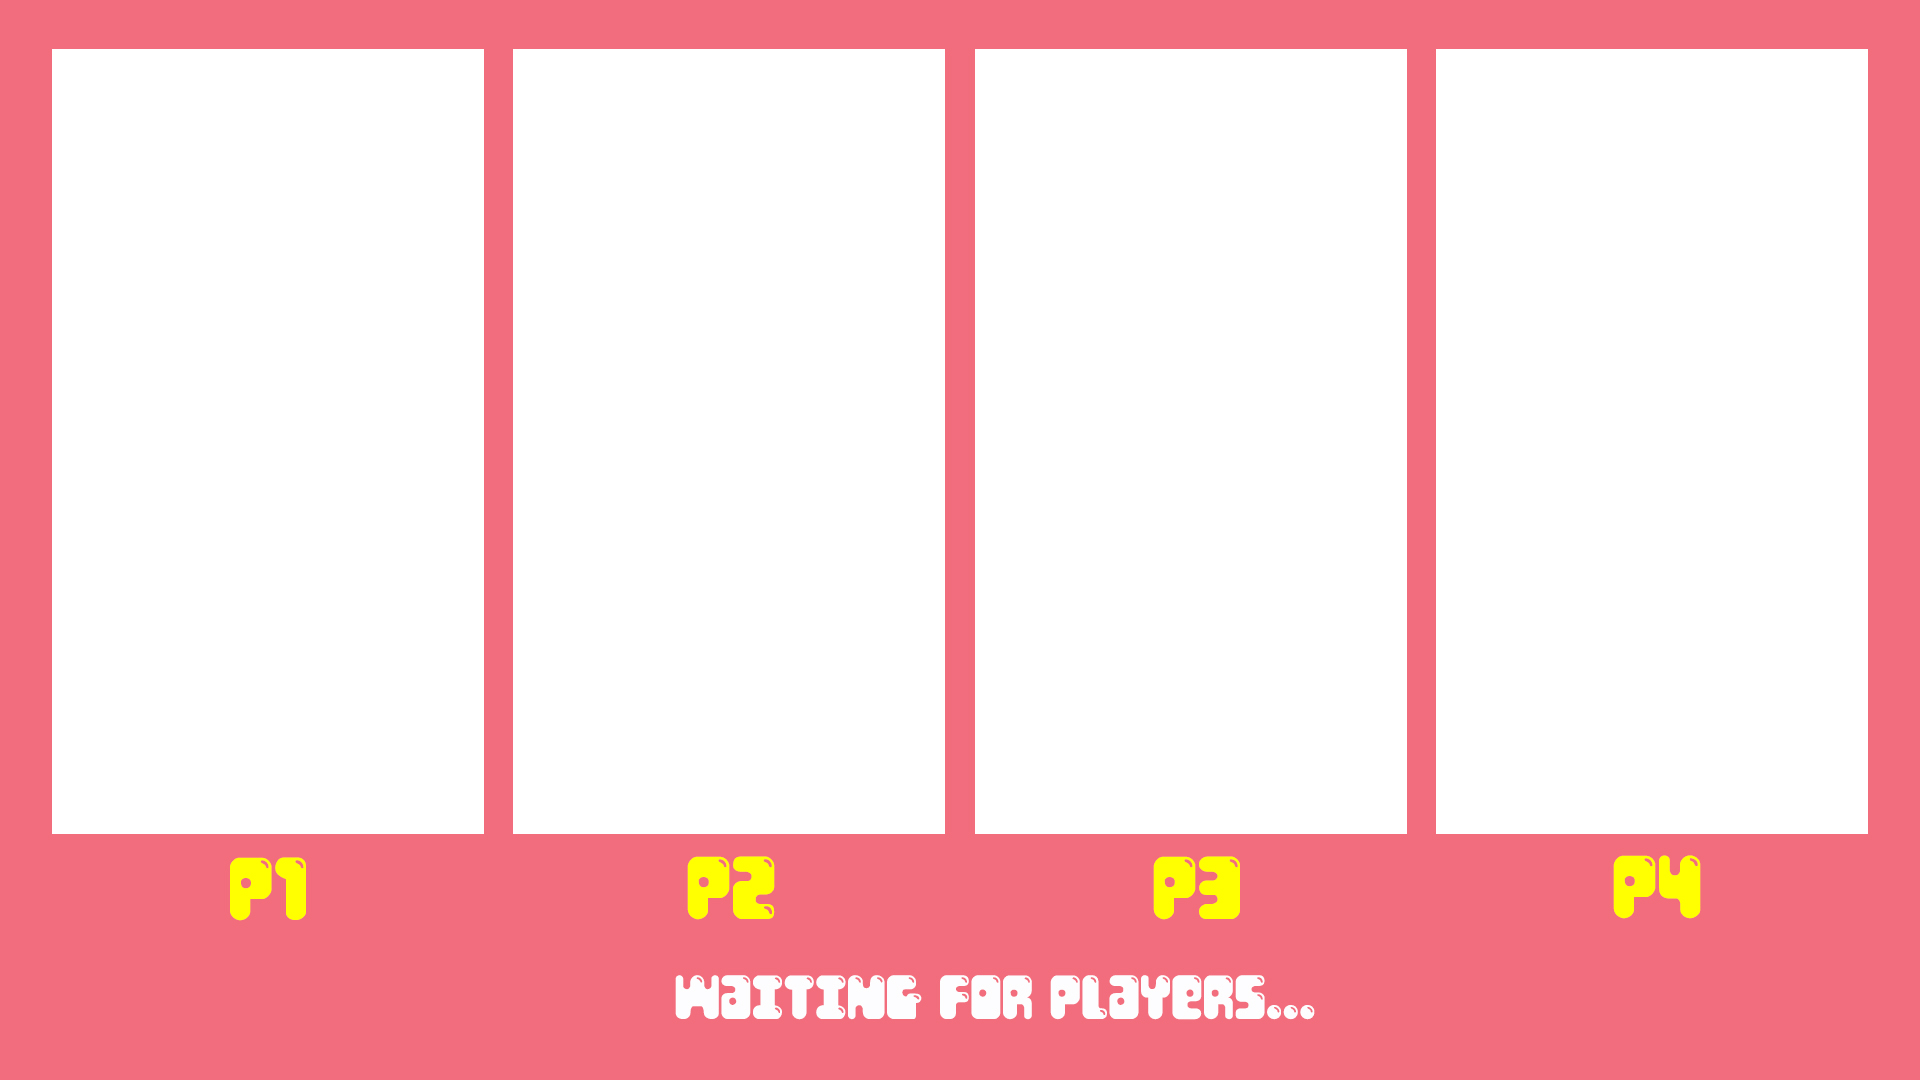
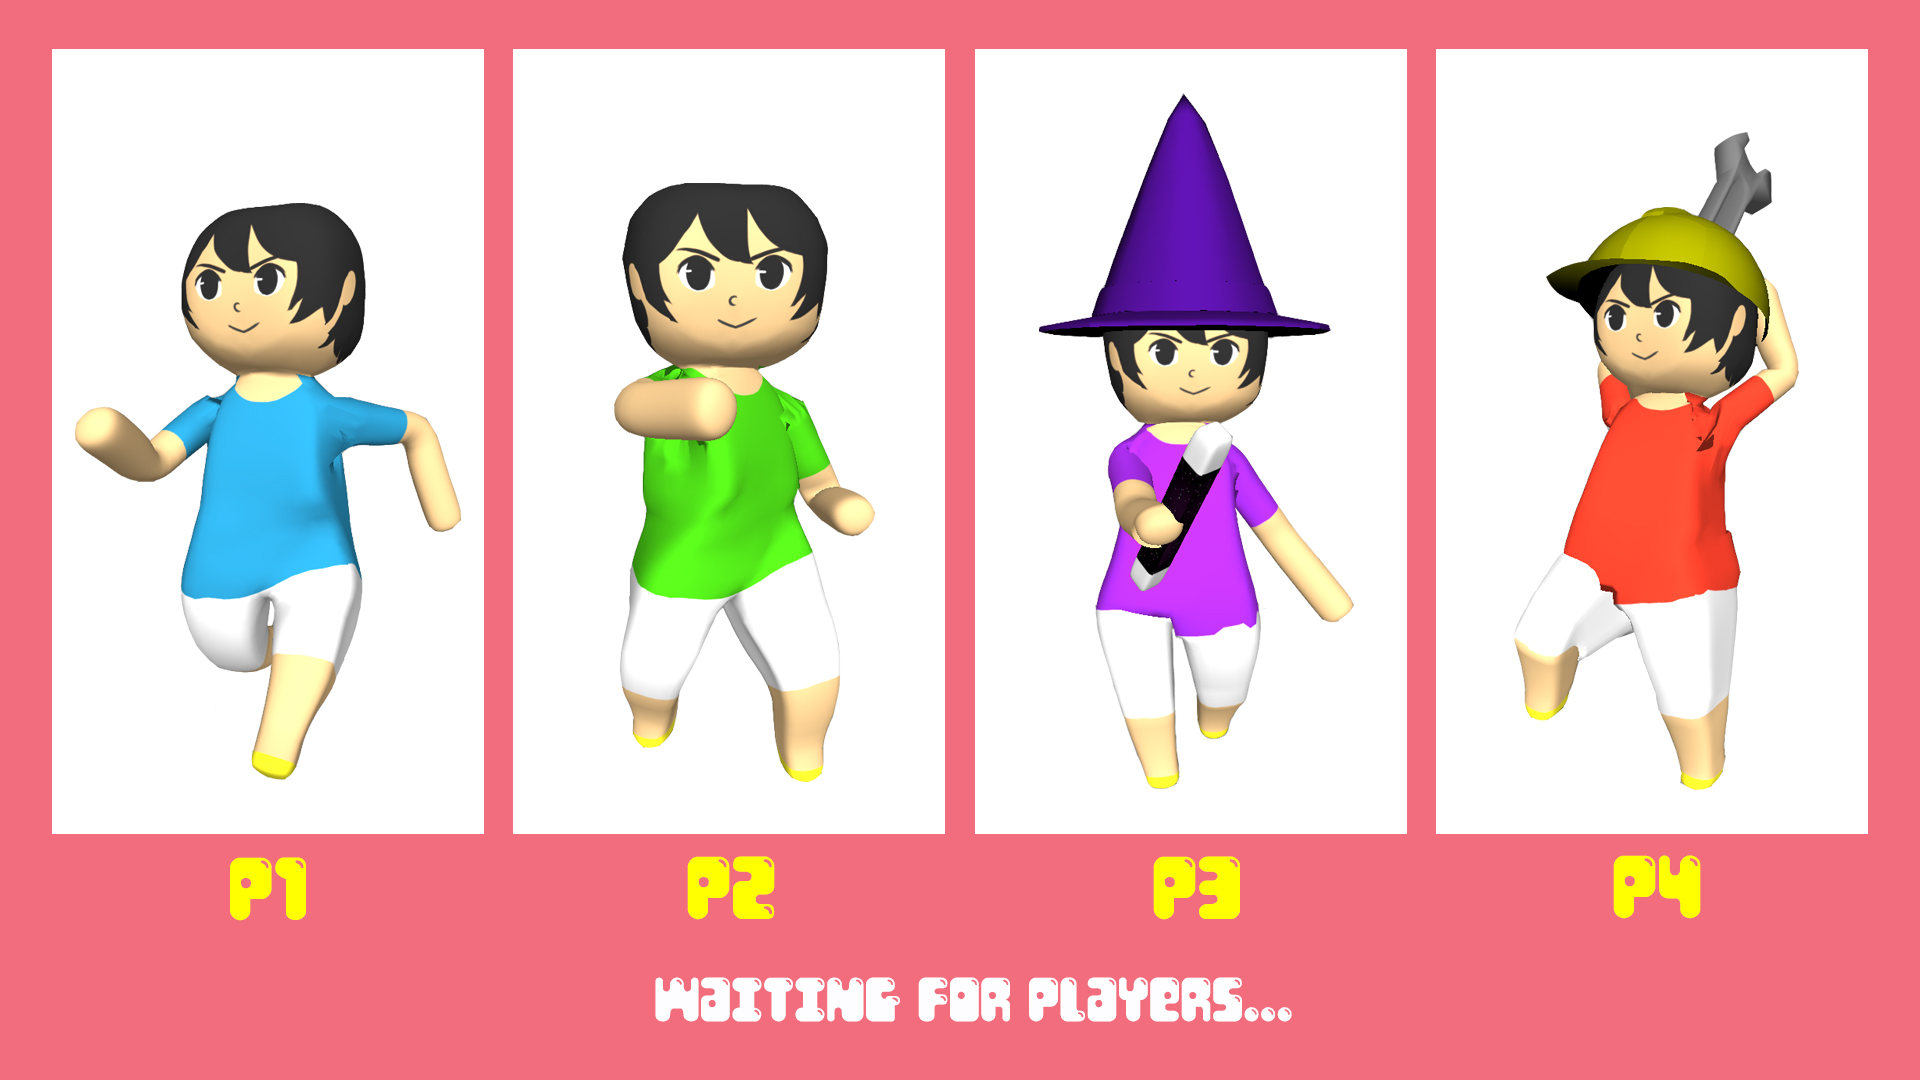
Updated lobby screens. Commented out some useless code.

diff --git a/game/client/GameObjects.cpp b/game/client/GameObjects.cpp
@@ -82,8 +82,8 @@ void GameObjects::loadGameObjects() {
 	guiMap[_LobbyReadyBG] = new GuiItem(lobbyReadyPath, shaderMap[_GShader], 60, 34, 0, 0);
 	guiMap[_EndGameBG] = new GuiItem(endPath, shaderMap[_GShader], 60, 34, 0, 0);
 	//guiMap[_Winner] = new GuiItem(winnerPath, shaderMap[_TransShader], 60, 34, 0, 0);
-	winner = new ImageGUI(winnerPath.c_str(), shaderMap[_TransShader], Globals::drawData.width, Globals::drawData.height);
-	winner->setupBuffers();
+	//winner = new ImageGUI(winnerPath.c_str(), shaderMap[_TransShader], Globals::drawData.width, Globals::drawData.height);
+	//winner->setupBuffers();
 	numPlayerGuiSet = 0;
 
 	playerGUIMap.push_back(std::pair<std::uint32_t, PlayerGameGUI*>(0, new PlayerGameGUI(shaderMap[_2DShader], Globals::drawData.width, Globals::drawData.height, "P1")));

diff --git a/game/client/GameObjects.h b/game/client/GameObjects.h
@@ -64,7 +64,7 @@ public:
 	std::unordered_map<std::uint32_t, Shader*> shaderMap;
 	std::unordered_map<std::uint32_t, GuiItem*> guiMap;
 	GUIText* winnerText;
-	ImageGUI *winner;
+	//ImageGUI *winner;
 	ReadyGUI *ready;
 	SMatrixTransform *root;
 
